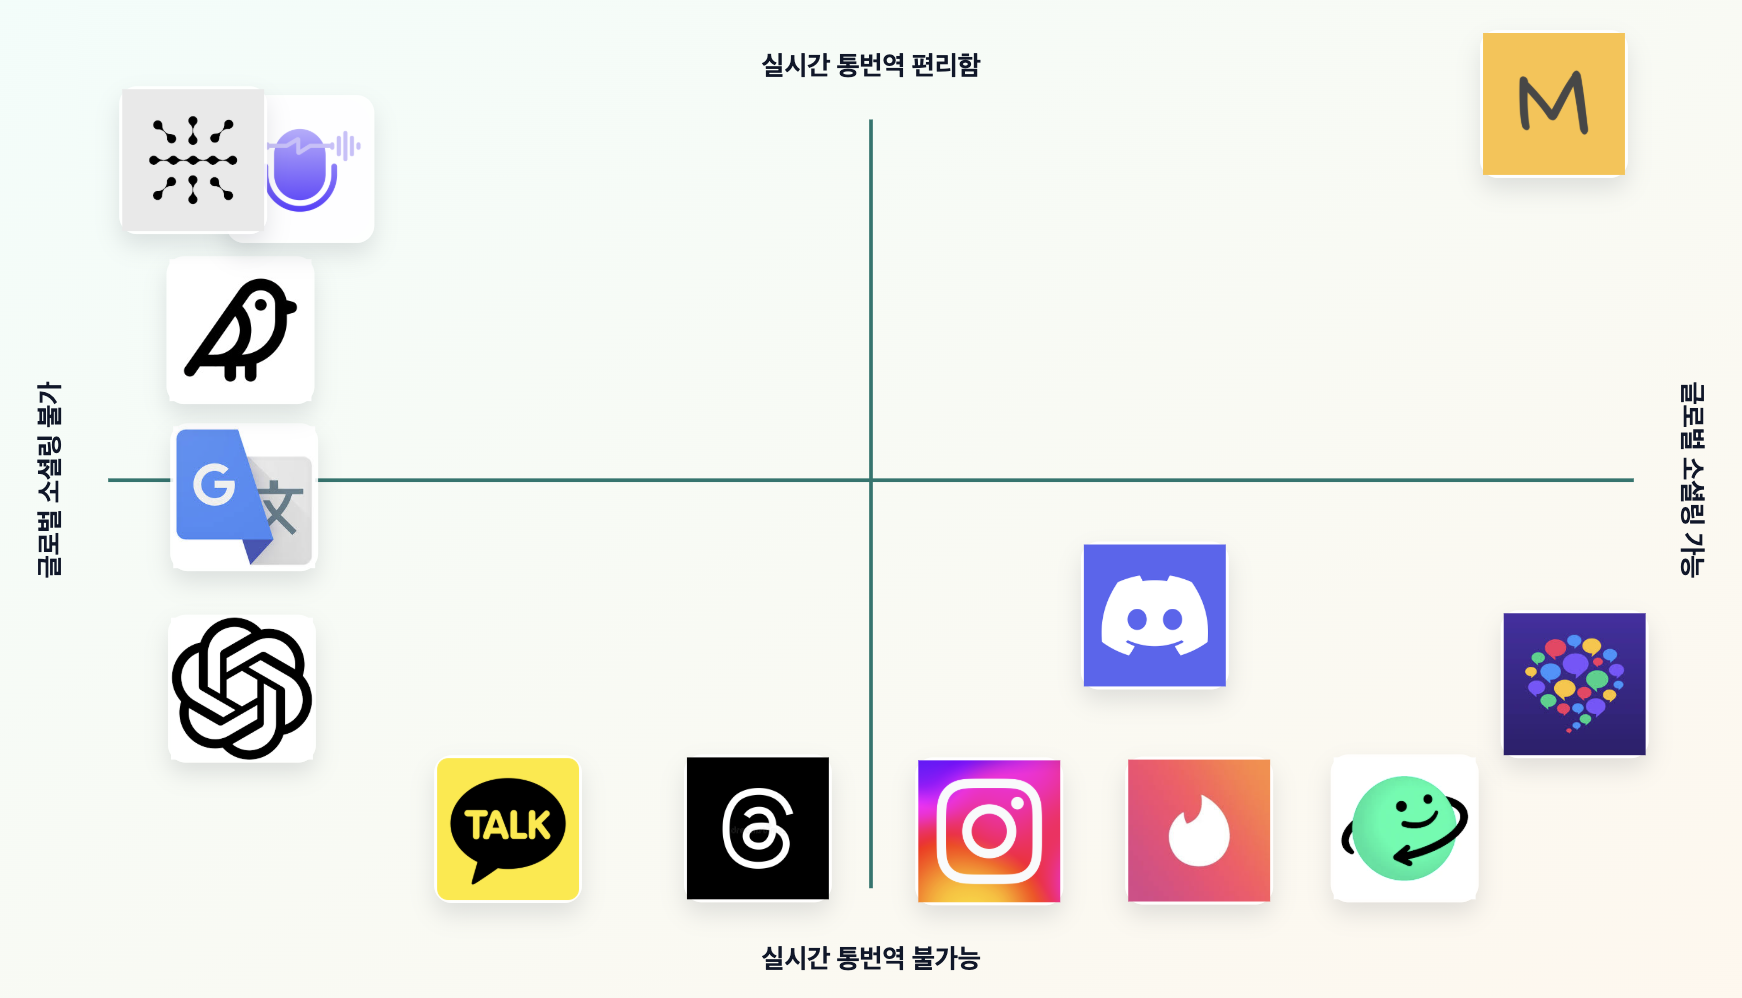
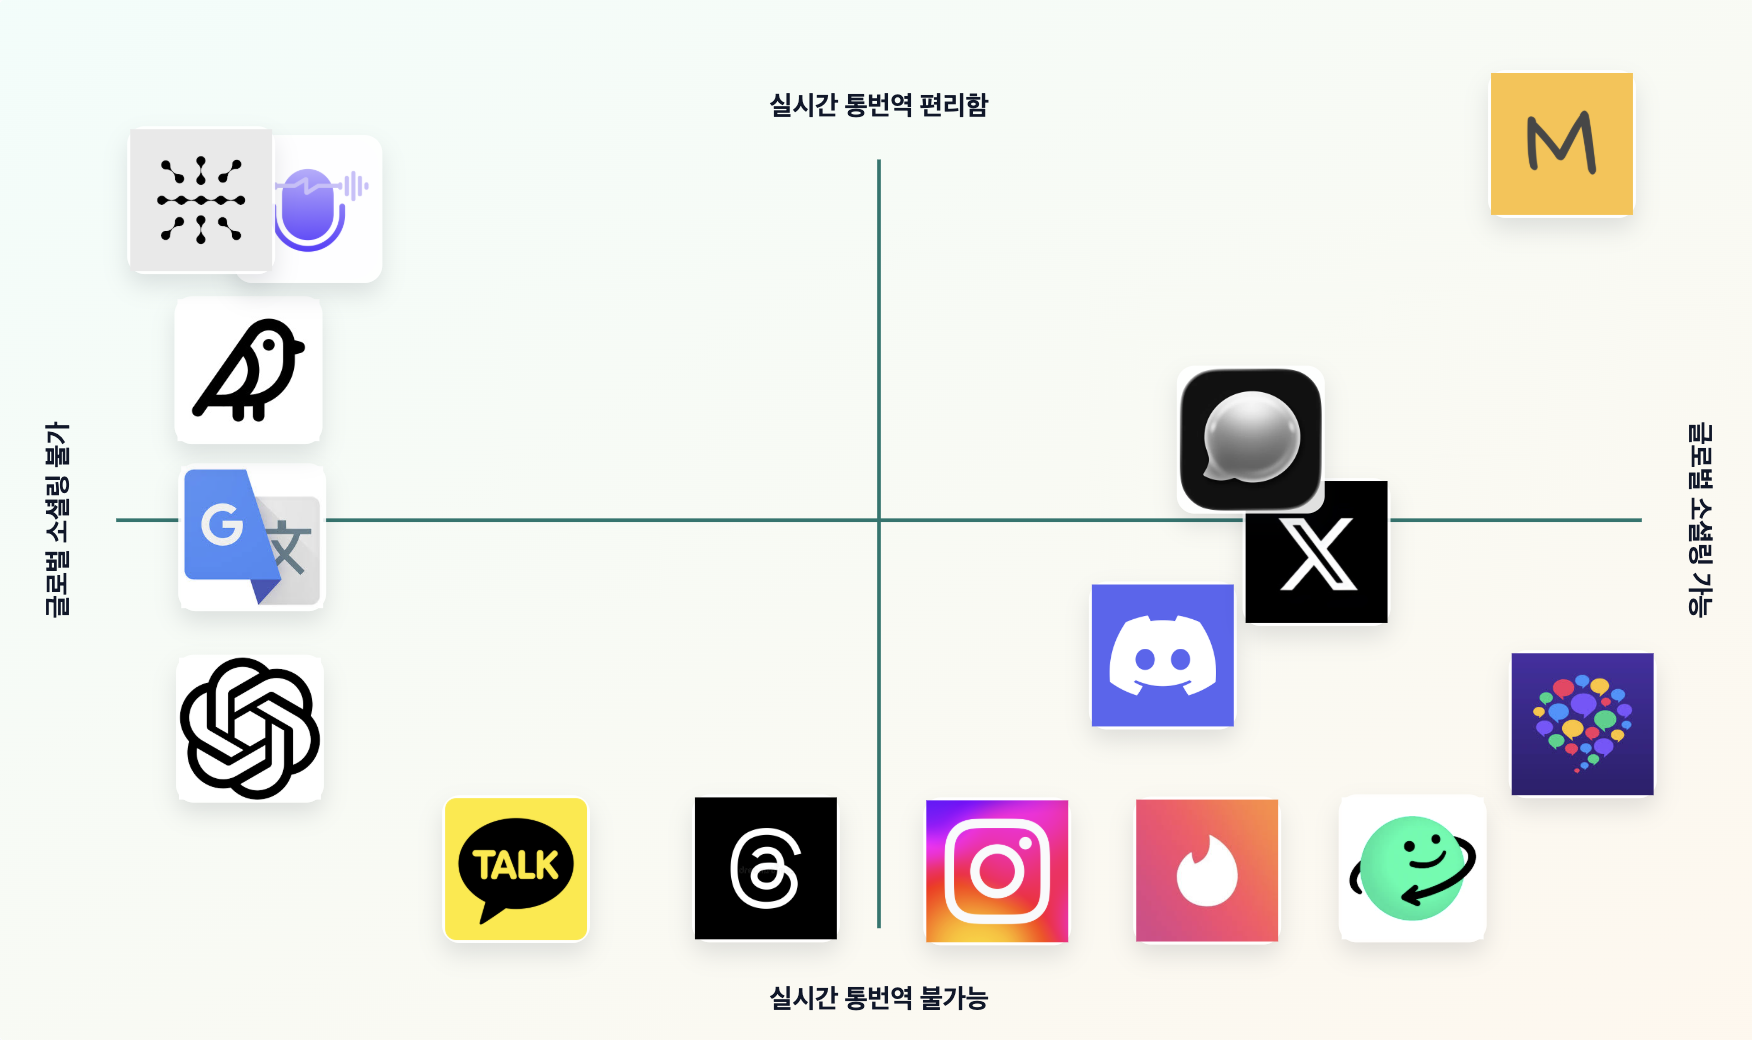
Add XR business matrix slide

diff --git a/mingle-xr/xr.html b/mingle-xr/xr.html
@@ -2050,6 +2050,16 @@
           </article>
         </section>
 
+        <section class="slide">
+          <article class="slide-shell slide-shell--image-only">
+            <img
+              class="slide-full-image"
+              src="./assets/business-matrix.png"
+              alt="Business matrix"
+            />
+          </article>
+        </section>
+
 <!--
         <section class="slide">
           <article class="slide-shell">

diff --git a/docs/ui-ux-codex-thread-history.md b/docs/ui-ux-codex-thread-history.md
@@ -1364,3 +1364,4 @@ UI/UX issue mentioned in planning only: the opener explicitly called out fragmen
 - 2026-04-16: Refined the XR viral-loop arrows so the stroke and arrowhead share the same visual weight and the curve connects from the vertical center of one step card toward the vertical center of the next step card.
 - 2026-04-16: Center-aligned the XR goal-step title text against the taller rounded step labels so the title row no longer reads as top-attached beside the `1단계`, `2단계`, and `3단계` markers.
 - 2026-04-16: Converted the newly inserted XR business-diagram slide into an image-only page that centers `business-venndiagram.png` and lets it fill the viewport within a narrow outer margin.
+- 2026-04-16: Added a second image-only XR business slide immediately after the Venn diagram page, using the same full-viewport treatment for `business-matrix.png`.
